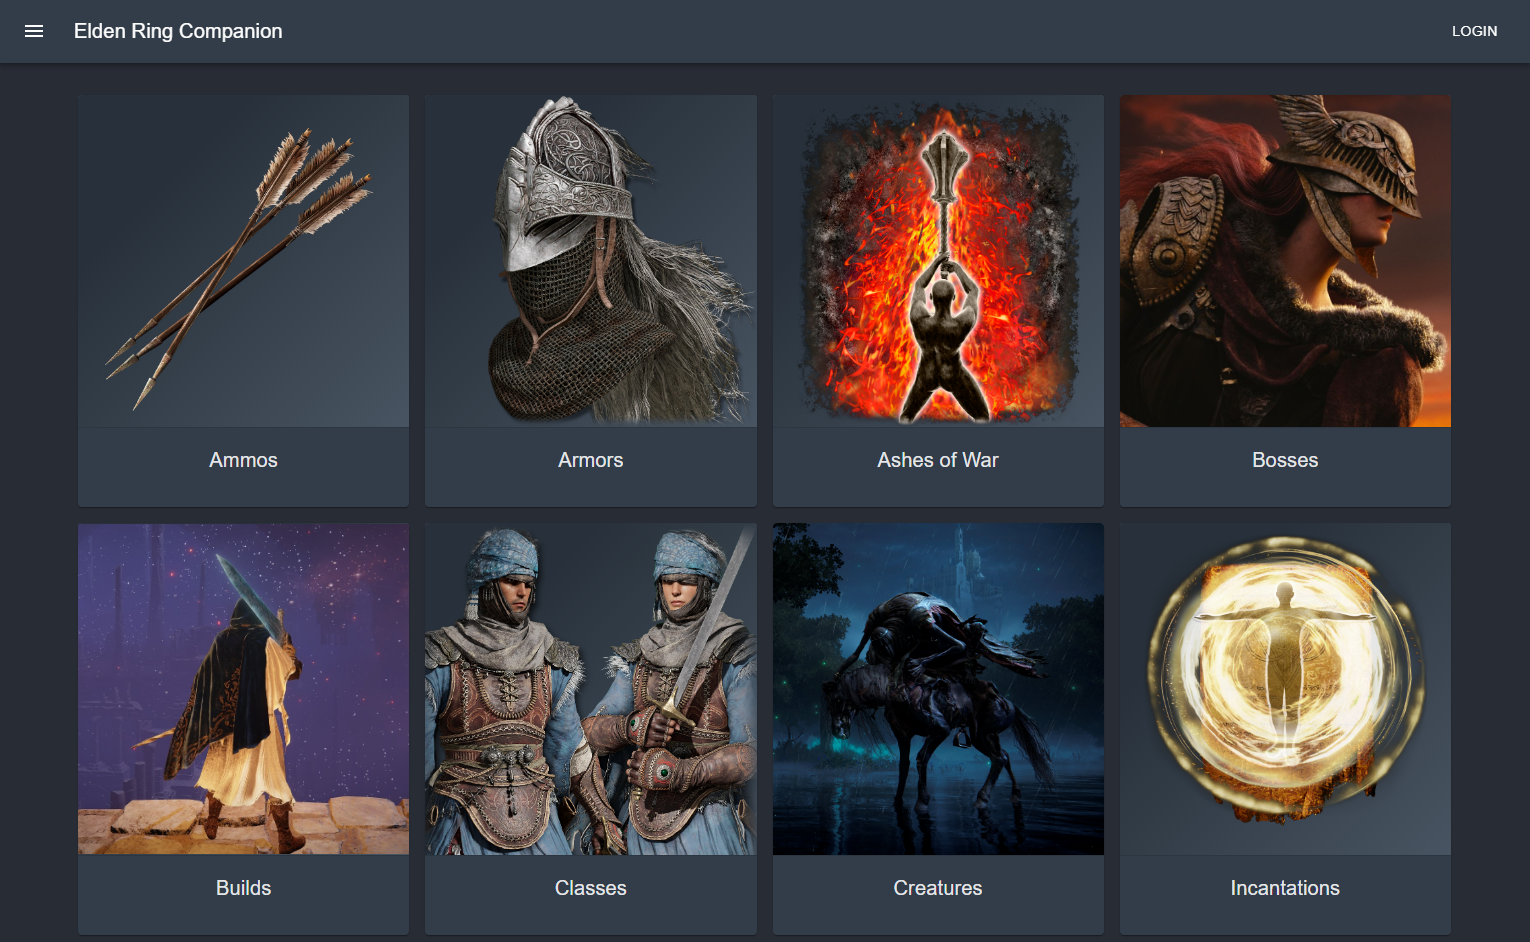
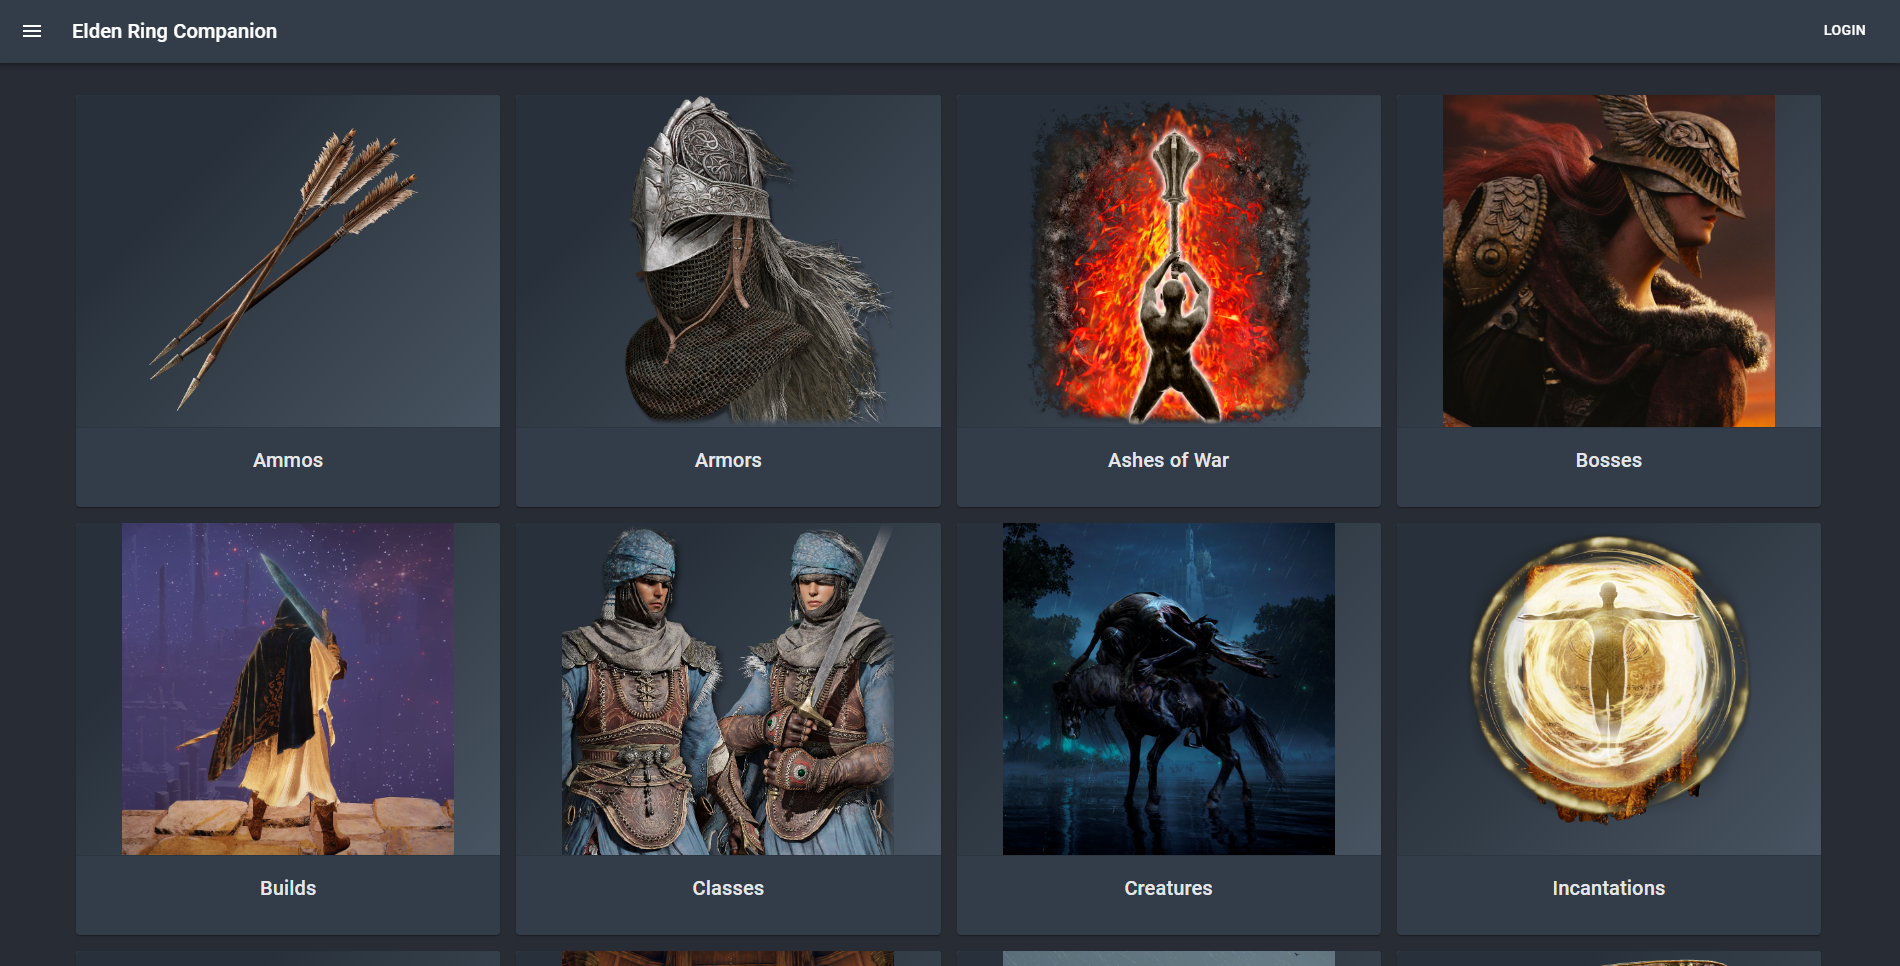
Projects photos update, small text change in About section

diff --git a/src/components/Sections/AboutMe.jsx b/src/components/Sections/AboutMe.jsx
@@ -23,8 +23,8 @@ const AboutMe = () => {
       </Typography>
       <Typography gutterBottom fontSize={20} px={5} textAlign="center">
         I'm a software developer with a Master's degree in Computer Engineering.
-        In my free time I enjoy playing video games, drawing and reading. I
-        speak fluent Polish and English.
+        In my free time I enjoy playing video games, drawing and reading. I am
+        fluent in Polish and English.
       </Typography>
     </Box>
   );

diff --git a/src/components/Sections/Projects/ProjectCard.jsx b/src/components/Sections/Projects/ProjectCard.jsx
@@ -33,7 +33,7 @@ const ProjectCard = ({
           alt={`${title} Snapshot Image`}
           sx={{
             objectFit: "contain",
-            height: "100%",
+            // height: "100%",
           }}
         />
         <CardContent
